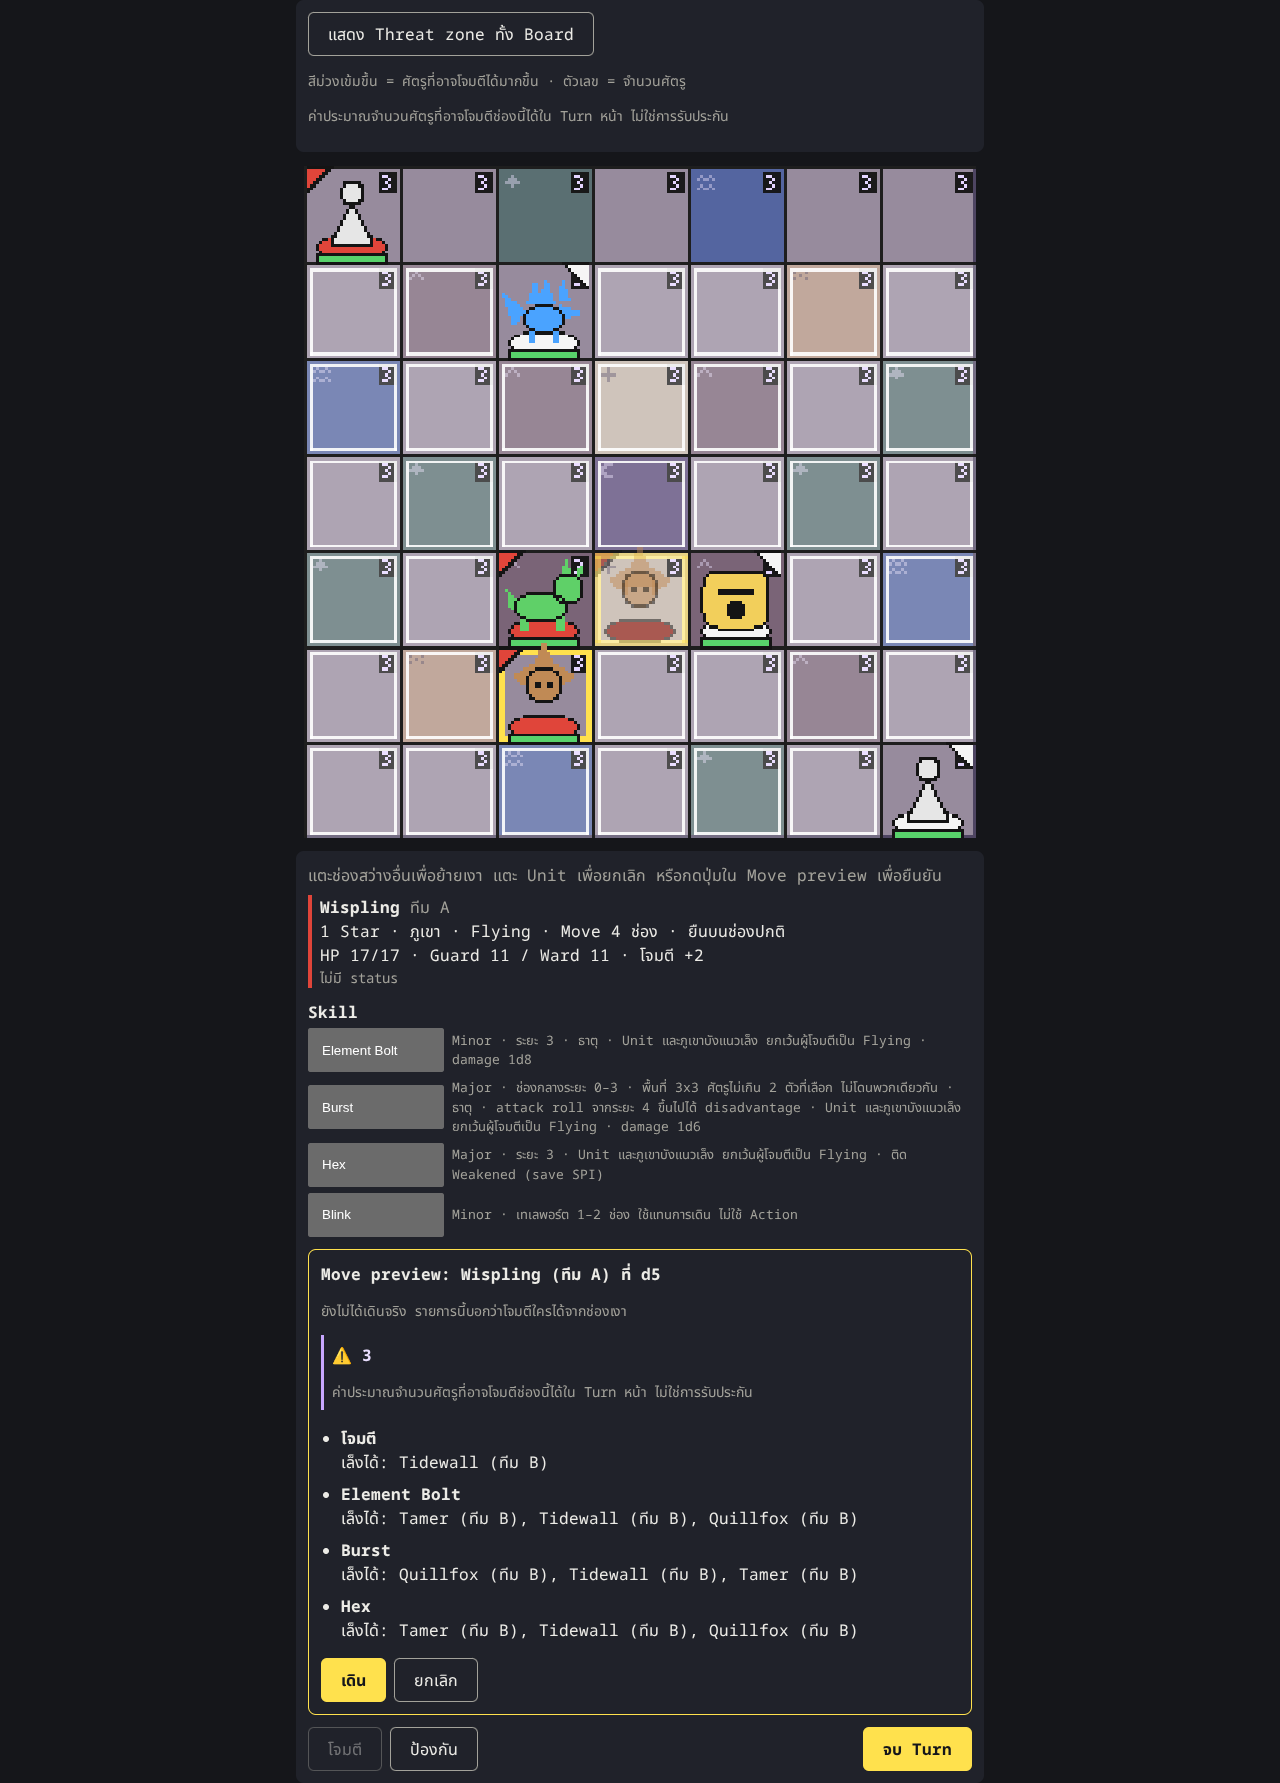
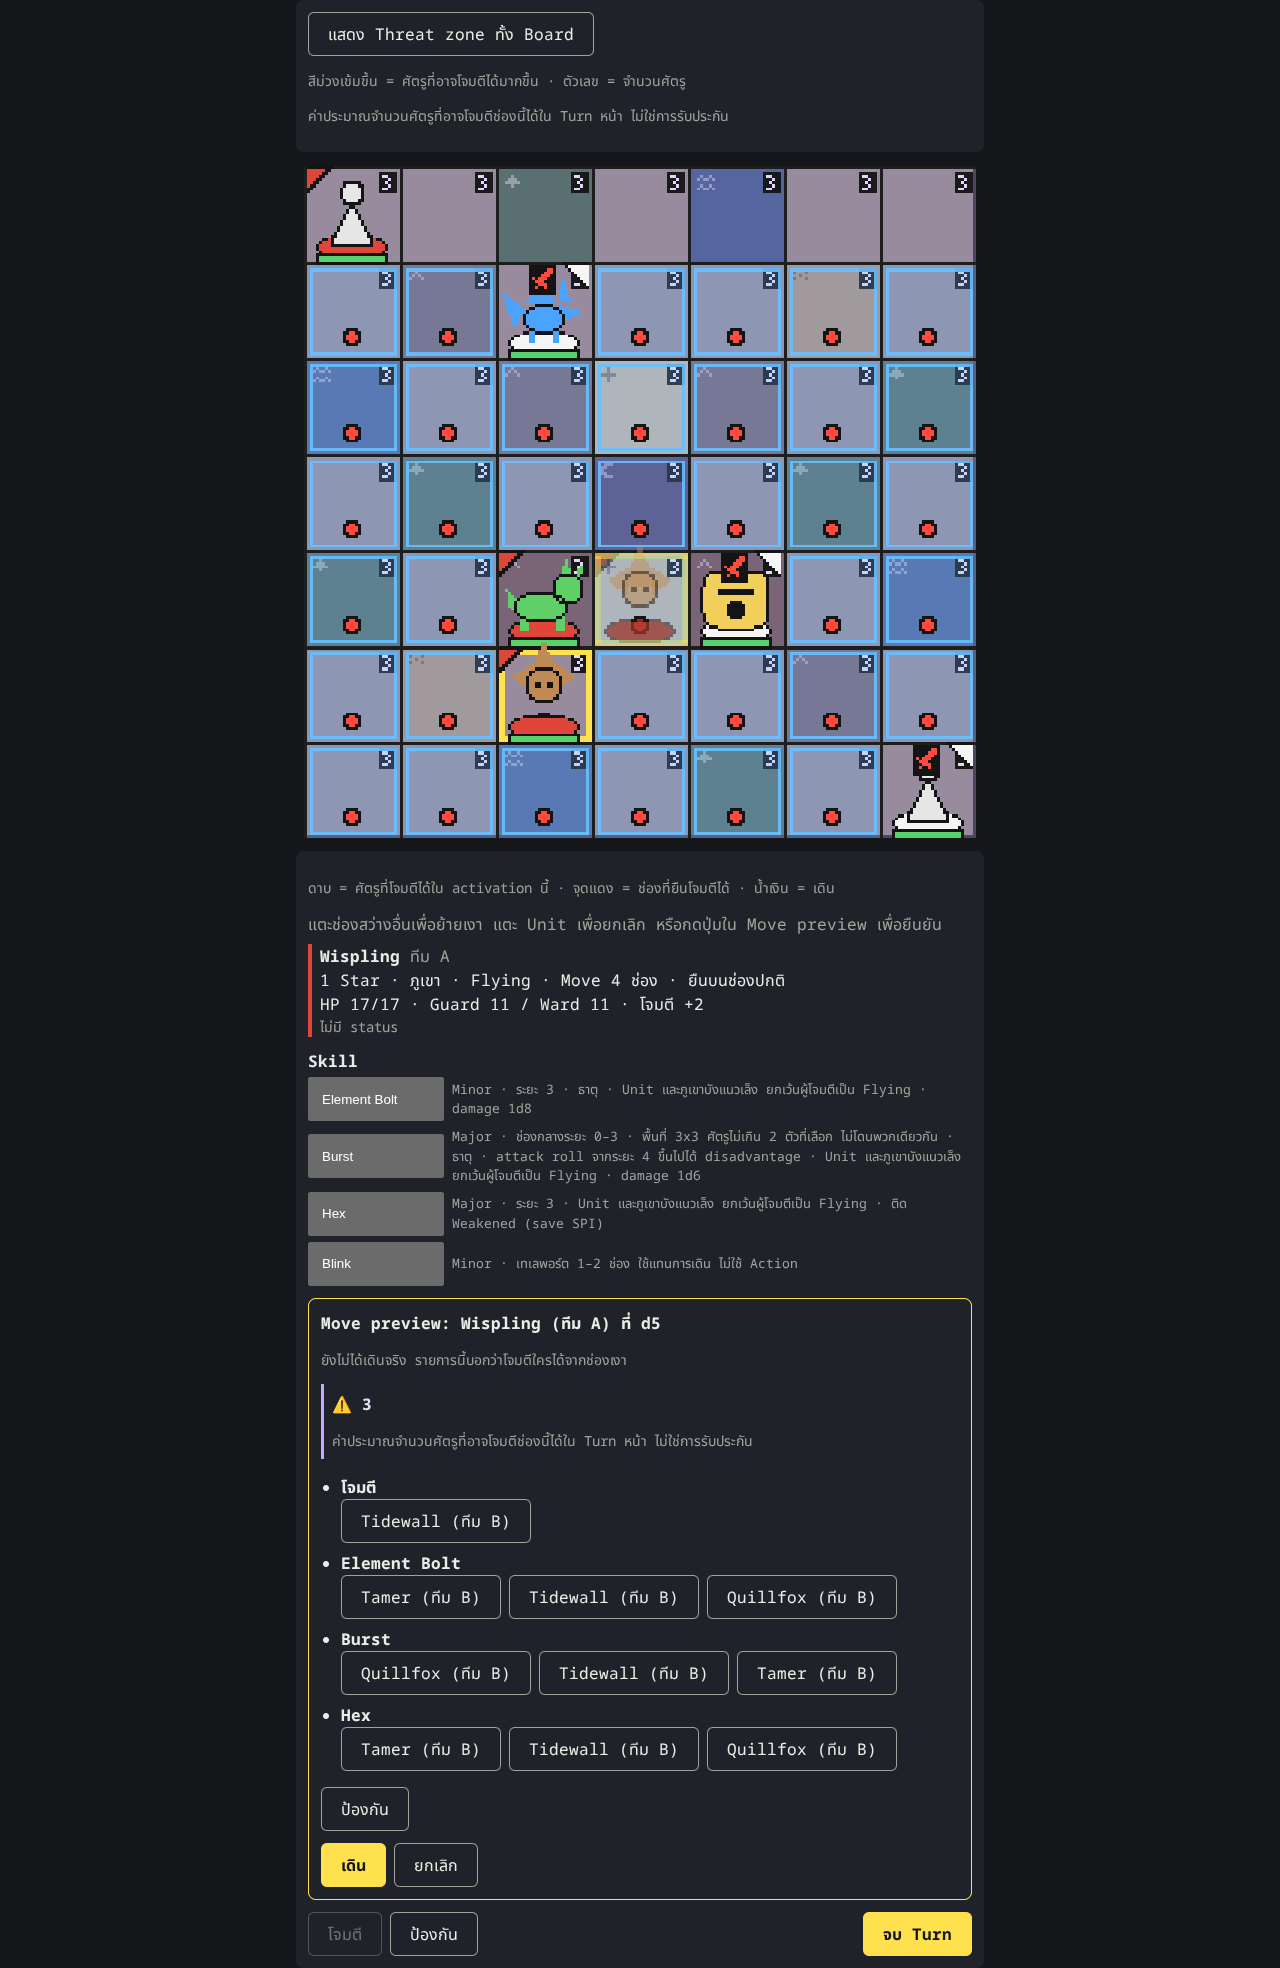
[P1X-12] Refresh and inspect combined UI baselines

Changed region(s): [[0.2188, 0.0, 0.7812, 0.9871], [0.6562, 0.9563, 0.75, 0.9871], [0.5312, 0.7712, 0.5625, 0.802]]

diff --git a/.scratch/phase-1x-playtest-feedback/issues/p1x-12-threat-zone-ui.md b/.scratch/phase-1x-playtest-feedback/issues/p1x-12-threat-zone-ui.md
@@ -8,8 +8,14 @@
 
 **Status:** ready-for-agent
 
-- [ ] แผงแสดงจำนวนจาก session (ไม่คำนวณเอง) และไม่แสดงเมื่อเป็น 0 หรือแสดงแบบเด่นน้อย ตามที่ออกแบบใน PR
-- [ ] ปุ่มเปิด/ปิด overlay ทั้ง Board ค่าเริ่มต้นปิด สีตามจำนวนจาก session อ่านง่ายทั้ง desktop และ 360 px และไม่บังไฮไลต์ช่องที่เดินได้
-- [ ] สีของ overlay ไม่ชนกับเครื่องหมายดาบบนศัตรูและจุดช่องที่ยืนโจมตีได้ของ Action plan (ticket 24) ถ้า 24 merge แล้ว
-- [ ] คำอธิบาย "ค่าประมาณ" อยู่ใน strings ของ web มี text test
+- [x] แผงแสดงจำนวนจาก session (ไม่คำนวณเอง) และไม่แสดงเมื่อเป็น 0 หรือแสดงแบบเด่นน้อย ตามที่ออกแบบใน PR
+- [x] ปุ่มเปิด/ปิด overlay ทั้ง Board ค่าเริ่มต้นปิด สีตามจำนวนจาก session อ่านง่ายทั้ง desktop และ 360 px และไม่บังไฮไลต์ช่องที่เดินได้
+- [x] สีของ overlay ไม่ชนกับเครื่องหมายดาบบนศัตรูและจุดช่องที่ยืนโจมตีได้ของ Action plan (ticket 24) ถ้า 24 merge แล้ว
+- [x] คำอธิบาย "ค่าประมาณ" อยู่ใน strings ของ web มี text test
 - [ ] screenshot ที่ desktop และ 360 px; CI เขียวทั้งสาม job
+
+## Implementation
+
+- Move preview displays the session count with muted zero and an explicit estimate explanation. The overlay starts off, uses purple shading and numeric counts from session, and preserves movement highlights.
+- Integrated P1X-07 and P1X-24 to resolve overlapping UI and baseline changes. Purple Threat zone remains distinct from blue movement and red Action plan markers. Merge PR #59, #60 and #61 first.
+- [Inspected desktop/mobile evidence](../evidence/12-threat-zone-ui/README.md). Combined typecheck, 1,035 tests passed (1 skipped), build and check-replays pass. Pinned Chromium baseline refresh passed 36/36; the final comparison and CI are recorded in the PR.

diff --git a/.scratch/phase-1x-playtest-feedback/evidence/12-threat-zone-ui/README.md b/.scratch/phase-1x-playtest-feedback/evidence/12-threat-zone-ui/README.md
@@ -9,4 +9,4 @@ The full-Board overlay starts off. It shades threatened tiles purple and prints 
 
 The final branch includes P1X-30 (#59), P1X-07 (#60) and P1X-24 (#61) to resolve overlapping UI and baseline changes before handoff. Merge those PRs first. The final captures and baselines include the combined features; all 19 Board-only images remain unchanged.
 
-Standalone validation: typecheck, 1,029 tests passed / 1 skipped, build, check-replays, 29/29 pinned Chromium visual comparisons. Combined validation and screenshot review are recorded in the PR. The local visual server used port 4184 while other ticket suites ran on separate ports. No gameplay rules or session contracts changed.
+Standalone validation: typecheck, 1,029 tests passed / 1 skipped, build, check-replays, 29/29 pinned Chromium visual comparisons. Combined typecheck, 1,035 tests passed / 1 skipped, build and check-replays passed. Baseline refresh passed 36/36 on the pinned Linux Chromium build 1234. Inspected all eight updated baseline PNGs and both full-page captures; the red swords/dots, blue movement borders and purple count marks remain distinct. The final comparison and CI are recorded in the PR. The local visual server used port 4184 while other ticket suites ran on separate ports. No gameplay rules or session contracts changed.
